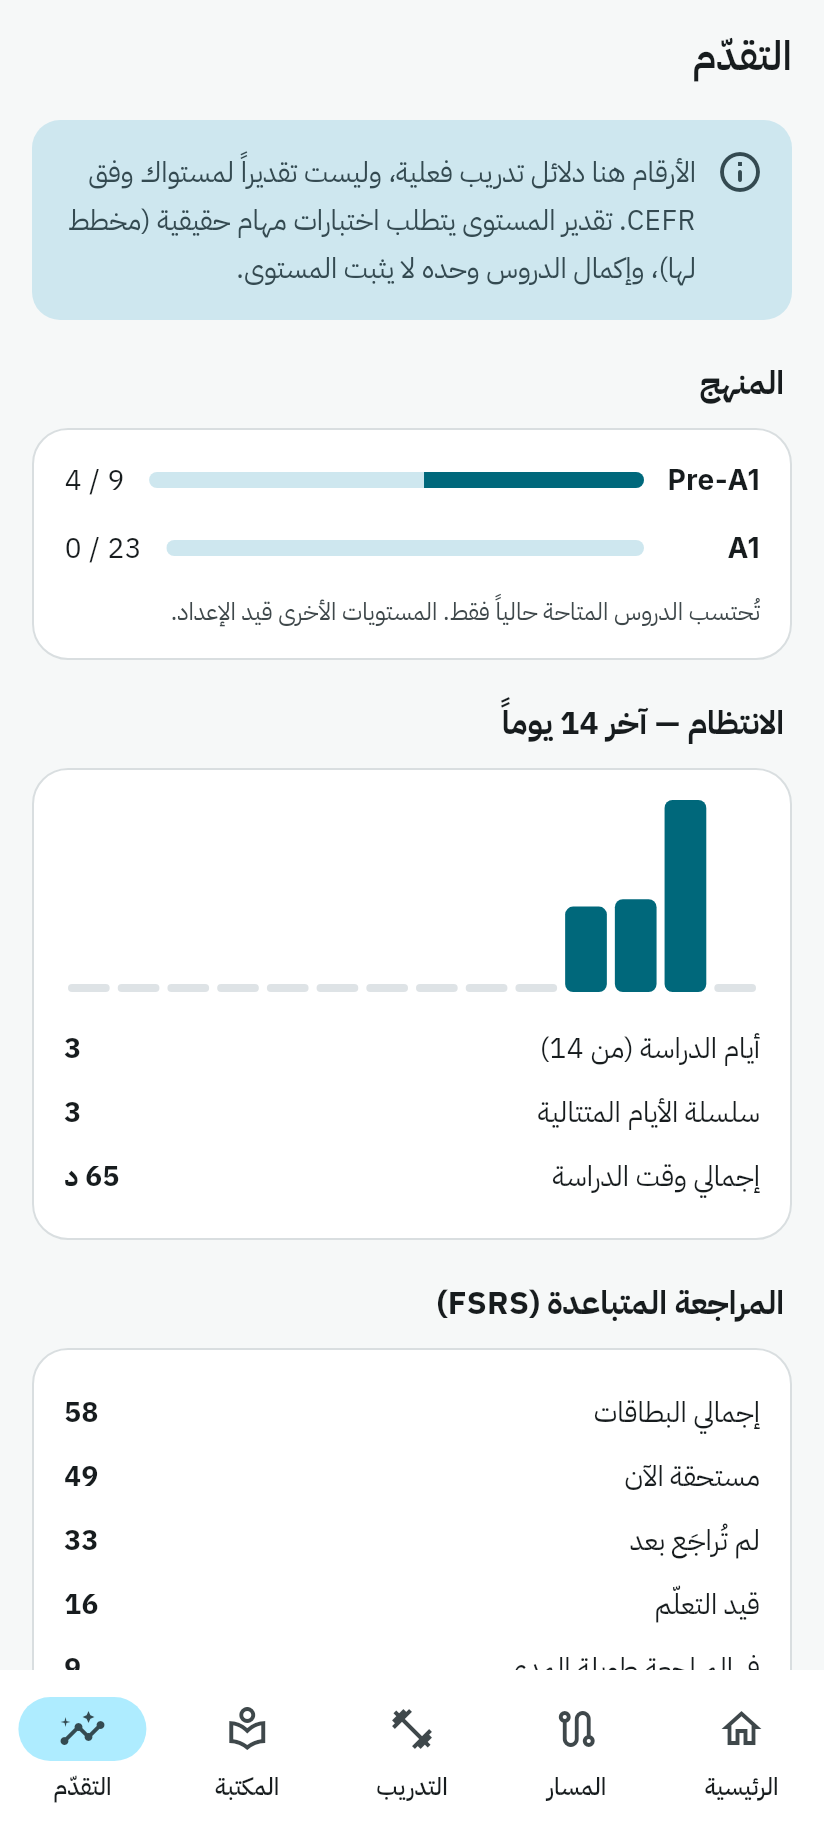
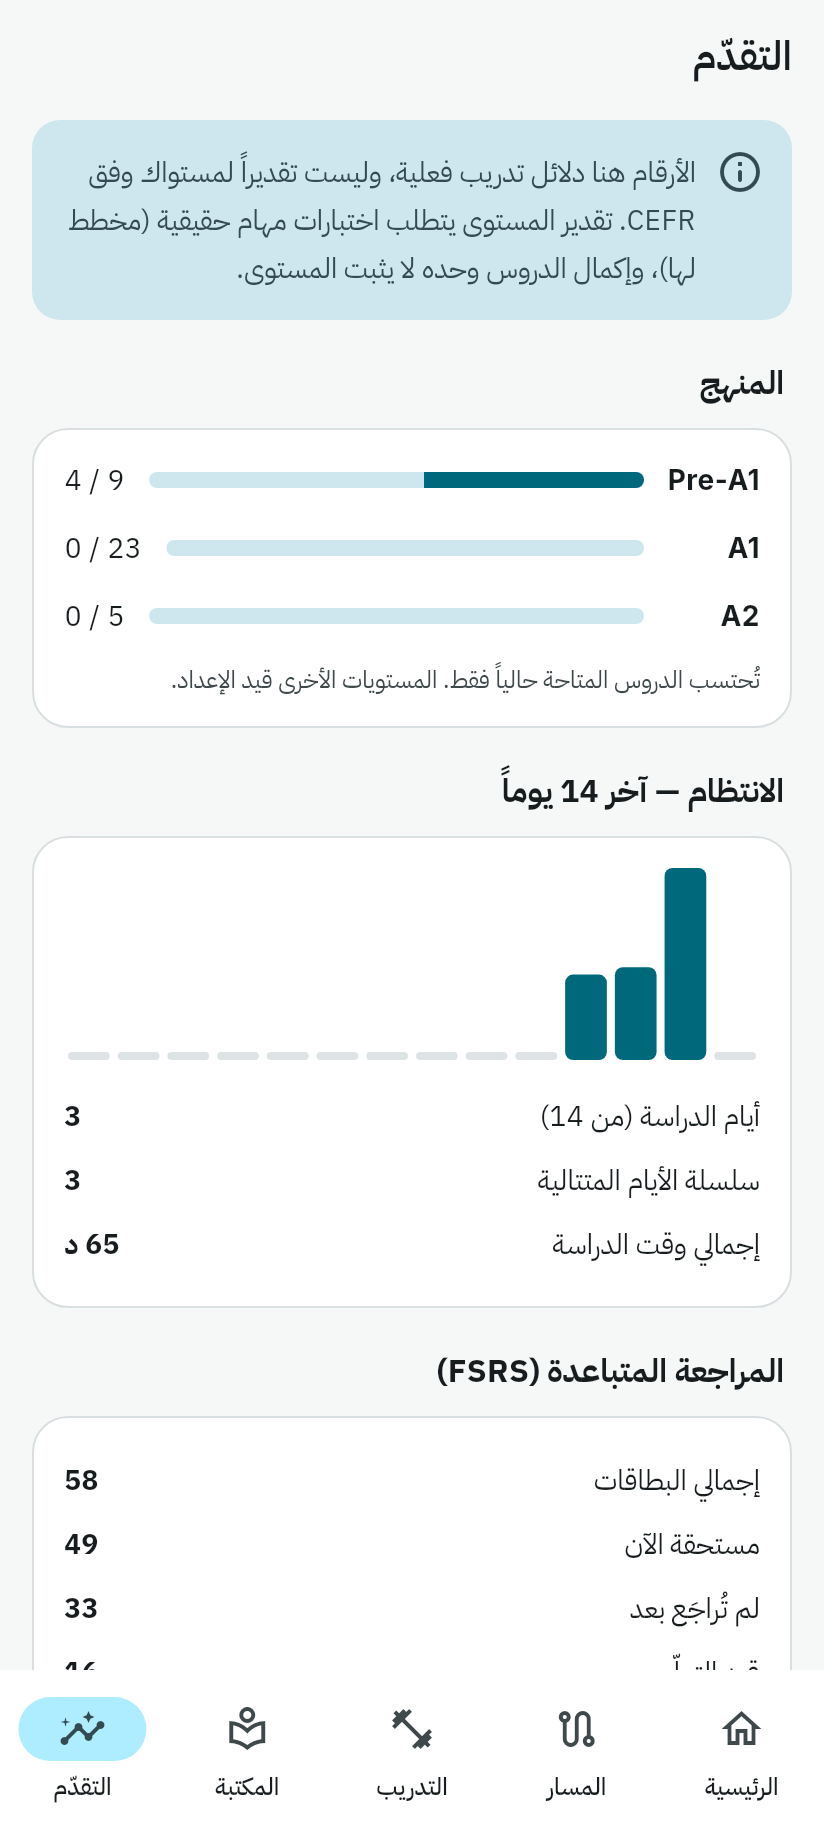
fix(assessment): shuffle checkpoint options per attempt (REVIEW-012 P1/P2)
P1: every checkpoint lists the correct option first and the screen showed
options in content order, so always tapping the first option passed. The
screen now shows displayedChoices(q, attemptSeed(startedAt)): a shuffled
copy seeded by the attempt and question. It is stable within the attempt
(rebuilds, navigation, listening) and differs between attempts. Content
lists are not mutated, and grading still compares option text, so stored
answers keep their meaning. Applies to all Pre-A1, A1 and A2 assessments.

Tests: assessment_order_test (permutation, stability, varied positions,
first-option strategy below chance threshold on every shipped assessment,
screen order matches the seed and survives next/back, later attempts
differ). Index-based option taps in tests now tap the option by text.

P2: dlg_a2_reclamacion.t7 no longer uses the ambiguous present/preterite
"cobramos"; it now reads "la factura tiene el servicio dos veces".

Screenshots 07 (A2 row in progress), 21 and 22 regenerated.

Claude-Session: https://claude.ai/code/session_014cGpiLUDDmKQRUcCZEH4q9

diff --git a/test/assessment_order_test.dart b/test/assessment_order_test.dart
@@ -1,0 +1,148 @@
+import 'package:espanol_pro/core/assessment/assessment_engine.dart';
+import 'package:espanol_pro/core/content/models.dart';
+import 'package:espanol_pro/core/learning/progress_repository.dart';
+import 'package:espanol_pro/core/srs/review_repository.dart';
+import 'package:flutter_test/flutter_test.dart';
+import 'package:timezone/data/latest_all.dart' as tzdata;
+
+import 'support.dart';
+import 'widget_support.dart';
+
+/// REVIEW-012 P1: the correct option is listed first in content, so options
+/// must not be shown in content order.
+void main() {
+  late ContentPack pack;
+  setUpAll(() async {
+    pack = await loadRealContent();
+    await loadAppFonts();
+    tzdata.initializeTimeZones();
+  });
+
+  Iterable<AssessmentQuestion> choiceQuestions() => pack.assessments
+      .expand((a) => a.questions)
+      .where((q) => q.type == 'choice');
+
+  group('displayed option order', () {
+    test('is a stable permutation and never changes the content', () {
+      for (final q in choiceQuestions()) {
+        final authored = [...q.choices];
+        for (var s = 0; s < 20; s++) {
+          final shown = displayedChoices(q, 'seed$s');
+          expect(shown.toSet(), authored.toSet(), reason: q.id);
+          expect(shown.length, authored.length, reason: q.id);
+          expect(displayedChoices(q, 'seed$s'), shown, reason: q.id);
+        }
+        expect(q.choices, authored, reason: '${q.id}: content mutated');
+      }
+    });
+
+    test('puts the correct option in different positions across attempts', () {
+      for (final q in choiceQuestions()) {
+        final positions = {
+          for (var s = 0; s < 40; s++)
+            displayedChoices(q, 'seed$s').indexOf(q.correctAnswer),
+        };
+        expect(positions.length, greaterThan(1), reason: q.id);
+      }
+    });
+
+    test('"always pick the first option" no longer passes any assessment', () {
+      // Every shipped checkpoint and level assessment, A1 and A2 included.
+      expect(
+        pack.assessments.map((a) => a.levelId).toSet(),
+        containsAll(['pre_a1', 'a1', 'a2']),
+      );
+      final seed = attemptSeed(DateTime.utc(2026, 3, 10, 9));
+      var choices = 0;
+      var firstIsRight = 0;
+      for (final a in pack.assessments) {
+        final first = {
+          for (final q in a.questions)
+            q.id: q.type == 'choice'
+                ? displayedChoices(q, seed).first
+                : q.correctAnswer,
+        };
+        final graded = gradeAssessment(a, first);
+        final wrongChoices = graded.where(
+          (g) => g.question.type == 'choice' && !g.isCorrect,
+        );
+        expect(wrongChoices, isNotEmpty, reason: a.id);
+        for (final g in graded.where((g) => g.question.type == 'choice')) {
+          choices++;
+          if (g.isCorrect) firstIsRight++;
+        }
+        // Answering by text is still graded right whatever the order.
+        final right = gradeAssessment(a, {
+          for (final q in a.questions) q.id: q.correctAnswer,
+        });
+        expect(right.every((g) => g.isCorrect), isTrue, reason: a.id);
+      }
+      // Chance level is about 1/3; content order would be 100 %.
+      expect(firstIsRight / choices, lessThan(0.5));
+    });
+  });
+
+  group('checkpoint screen', () {
+    Future<void> completeUnit(TestApp app, String unitId) async {
+      final repo = ProgressRepository(
+        app.db,
+        ReviewRepository(app.db, clock: app.clock.call, enableFuzzing: false),
+        clock: app.clock.call,
+      );
+      for (final l in pack.orderedLessons) {
+        await repo.completeLesson(
+          l,
+          score: 1,
+          seconds: 60,
+          contentVersion: pack.version,
+        );
+        if (l.unitId == unitId && l == pack.unit(unitId)!.lessons.last) break;
+      }
+    }
+
+    testWidgets('shows the attempt order, keeps it across navigation and '
+        'grades the chosen text', (tester) async {
+      final chk = pack.assessment('chk_a2_u1')!;
+      final app = TestApp(pack);
+      await completeUnit(app, 'a2_u1');
+      await app.pump(tester, location: '/assessment/${chk.id}');
+      final seed = attemptSeed(app.clock());
+      await tester.tapKey('assessment-start');
+
+      final q1 = chk.questions[0];
+      expect(q1.type, 'choice');
+      final shown = tester.shownOptions();
+      expect(shown, displayedChoices(q1, seed));
+
+      // Same order after selecting, moving on and coming back.
+      await tester.tapOption(q1.correctAnswer);
+      expect(tester.shownOptions(), shown);
+      await tester.tapKey('assessment-next');
+      await tester.tapKey('assessment-prev');
+      expect(tester.shownOptions(), shown);
+
+      // Across the checkpoint, content order is not what is shown.
+      var differs = 0;
+      for (final q in chk.questions.where((q) => q.type == 'choice')) {
+        if (displayedChoices(q, seed).first != q.correctAnswer) differs++;
+      }
+      expect(differs, greaterThan(0));
+      await app.dispose(tester);
+    });
+
+    testWidgets('a later attempt can show a different order', (tester) async {
+      final chk = pack.assessment('chk_a2_u1')!;
+      final orders = <String>{};
+      for (var attempt = 0; attempt < 3; attempt++) {
+        final app = TestApp(pack);
+        app.clock.advance(Duration(minutes: 7 * attempt));
+        await completeUnit(app, 'a2_u1');
+        await app.pump(tester, location: '/assessment/${chk.id}');
+        await tester.tapKey('assessment-start');
+        orders.add(tester.shownOptions().join('|'));
+        await app.dispose(tester);
+      }
+      expect(orders.length, greaterThan(1));
+    });
+  });
+}

diff --git a/lib/features/assessment/assessment_screens.dart b/lib/features/assessment/assessment_screens.dart
@@ -246,6 +246,7 @@ class _AssessmentScreenState extends ConsumerState<AssessmentScreen> {
         body: _AssessmentQuestionView(
           key: ValueKey(q.id),
           question: q,
+          choices: displayedChoices(q, attemptSeed(_startedAt!)),
           answer: answer,
           onChanged: (v) => setState(() => _answers[q.id] = v),
           heard: _heard.contains(q.id),
@@ -325,6 +326,7 @@ class _AssessmentQuestionView extends ConsumerStatefulWidget {
   const _AssessmentQuestionView({
     super.key,
     required this.question,
+    required this.choices,
     required this.answer,
     required this.onChanged,
     required this.heard,
@@ -332,6 +334,9 @@ class _AssessmentQuestionView extends ConsumerStatefulWidget {
   });
 
   final AssessmentQuestion question;
+
+  /// The options in this attempt's display order (see [displayedChoices]).
+  final List<String> choices;
   final String answer;
   final ValueChanged<String> onChanged;
 
@@ -442,15 +447,15 @@ class _AssessmentQuestionViewState
           ),
         const SizedBox(height: 16),
         if (q.type == 'choice')
-          for (var i = 0; i < q.choices.length; i++)
+          for (final (i, choice) in widget.choices.indexed)
             Padding(
               padding: const EdgeInsets.only(bottom: 10),
               child: _Choice(
                 key: ValueKey('assessment-option-$i'),
-                text: q.choices[i],
+                text: choice,
                 spanish: q.choicesEs,
-                selected: widget.answer == q.choices[i],
-                onTap: locked ? null : () => widget.onChanged(q.choices[i]),
+                selected: widget.answer == choice,
+                onTap: locked ? null : () => widget.onChanged(choice),
               ),
             )
         else ...[

diff --git a/test/assessment_flow_test.dart b/test/assessment_flow_test.dart
@@ -60,7 +60,7 @@ void main() {
       final q = chk.questions[i];
       if (q.audioEs != null) await tester.tapKey('assessment-play');
       if (q.type == 'choice') {
-        await tester.tapKey('assessment-option-${q.answer}');
+        await tester.tapOption(q.correctAnswer);
       } else {
         await tester.enterText(
           find.byKey(const ValueKey('assessment-answer')),
@@ -328,7 +328,7 @@ void main() {
       findsOneWidget,
     );
     // Tapping an option before listening selects nothing.
-    await tester.tapKey('assessment-option-${q.answer}');
+    await tester.tapOption(q.correctAnswer);
     expect(
       tester
           .widget<FilledButton>(find.byKey(const ValueKey('assessment-next')))
@@ -337,7 +337,7 @@ void main() {
     );
     // The engine fails while playing: the question stays locked.
     await tester.tapKey('assessment-play');
-    await tester.tapKey('assessment-option-${q.answer}');
+    await tester.tapOption(q.correctAnswer);
     expect(
       find.byKey(const ValueKey('assessment-listen-first')),
       findsOneWidget,
@@ -358,7 +358,7 @@ void main() {
     await tester.tapKey('assessment-start');
     await tester.tapKey('assessment-play');
     expect(find.byKey(const ValueKey('assessment-listen-first')), findsNothing);
-    await tester.tapKey('assessment-option-${chk.questions.first.answer}');
+    await tester.tapOption(chk.questions.first.correctAnswer);
     await tester.tapKey('assessment-next');
     // Question 2 has its own audio and is locked again.
     expect(chk.questions[1].audioEs, isNotNull);

diff --git a/test/widget_support.dart b/test/widget_support.dart
@@ -109,6 +109,32 @@ extension Robot on WidgetTester {
 
   Future<void> tapKey(String key) => tapSettled(find.byKey(ValueKey(key)));
 
+  /// Taps the checkpoint option showing [text], wherever this attempt's
+  /// shuffle placed it.
+  Future<void> tapOption(String text) => tapSettled(
+    find.ancestor(
+      of: find.text(text),
+      matching: find.byWidgetPredicate(isOption),
+    ),
+  );
+
+  /// The checkpoint options in the order they are shown.
+  List<String> shownOptions() => [
+    for (
+      var i = 0;
+      find.byKey(ValueKey('assessment-option-$i')).evaluate().isNotEmpty;
+      i++
+    )
+      widget<Text>(
+        find
+            .descendant(
+              of: find.byKey(ValueKey('assessment-option-$i')),
+              matching: find.byType(Text),
+            )
+            .first,
+      ).data!,
+  ];
+
   /// Answers one step on screen. [correct] = false gives a wrong answer
   /// (supported for choice / typed exercises).
   Future<void> answer(LessonStep step, {bool correct = true}) async {
@@ -151,4 +177,10 @@ extension Robot on WidgetTester {
         await tapSettled(find.text('كرّرتها بصوت مسموع'));
     }
   }
+}
+
+/// Whether [w] is a checkpoint option (`assessment-option-<display index>`).
+bool isOption(Widget w) {
+  final k = w.key;
+  return k is ValueKey<String> && k.value.startsWith('assessment-option-');
 }

diff --git a/lib/core/assessment/assessment_engine.dart b/lib/core/assessment/assessment_engine.dart
@@ -1,5 +1,8 @@
+import 'dart:math';
+
 import '../content/models.dart';
 import '../learning/answer_evaluator.dart';
+import '../learning/exercises.dart' show stableHash;
 
 /// Outcome of a typed answer, stored in `assessment_answers.spelling`.
 ///
@@ -72,6 +75,20 @@ class GradedAnswer {
   /// For typed answers only (see [Spelling]); null for choices.
   final String? spelling;
 }
+
+/// The seed for one attempt's option order: the moment it started.
+String attemptSeed(DateTime startedAt) => '${startedAt.microsecondsSinceEpoch}';
+
+/// The order in which a choice question's options are shown in one attempt.
+///
+/// Content lists options in a fixed order (the correct one usually first), so
+/// showing them as authored would let "always the first option" pass. This is
+/// a shuffled copy, seeded by the attempt and the question: the same attempt
+/// always shows the same order (rebuilds, navigation, listening), a new
+/// attempt usually shows another. The content list is never changed, and
+/// grading compares option *text*, so stored answers mean the same thing.
+List<String> displayedChoices(AssessmentQuestion q, String seed) =>
+    [...q.choices]..shuffle(Random(stableHash('$seed|${q.id}')));
 
 /// Grades a complete set of answers. Pure and deterministic.
 ///

diff --git a/test_screenshots/screenshots_test.dart b/test_screenshots/screenshots_test.dart
@@ -200,7 +200,7 @@ void main() {
     await app.pump(tester, location: '/assessment/${chk.id}');
     await tester.tapKey('assessment-start');
     await tester.tapKey('assessment-play');
-    await tester.tapKey('assessment-option-${chk.questions.first.answer}');
+    await tester.tapOption(chk.questions.first.correctAnswer);
     await shot(tester, '21_checkpoint_question');
     final answers = {for (final q in chk.questions) q.id: q.correctAnswer}
       ..['chk_pa1_u1.q7'] = 'telefono'

diff --git a/docs/IMPLEMENTATION_STATUS.md b/docs/IMPLEMENTATION_STATUS.md
@@ -142,6 +142,7 @@ detect it.
 | Checkpoint `chk_a2_u1`: 12 questions, 3 can-dos, 5 skills, 3 dialogue sentences | `a2_units_test`, `assessment_content_test` |
 | Verb reference +6 (abrir, sacar, arreglar, cobrar machine-checked; devolver, comprobar entered by hand) — 22 verbs | `a2_units_test`, `verbs_and_level_test` |
 | Path: a completed level stays expanded until its level assessment has been taken once, so starting A2 does not hide the A1 level assessment | `verbs_and_level_test` |
+| Checkpoint options (every unit checkpoint and level assessment, Pre-A1 to A2) are shown in a per-attempt shuffled order, stable within the attempt; grading by option text is unchanged (REVIEW-012 P1) | `assessment_order_test`, `assessment_flow_test` |
 
 ## Android build and runtime
 

diff --git a/docs/CONTENT_SCHEMA.md b/docs/CONTENT_SCHEMA.md
@@ -155,7 +155,7 @@ from `activity_attempts` rows with `context = 'listening'` whose
 
 | `type` | required | graded by |
 |---|---|---|
-| `choice` | `prompt_ar`, ≥ 2 distinct `choices`, valid `answer` | exact option text |
+| `choice` | `prompt_ar`, ≥ 2 distinct `choices`, valid `answer` | exact option text; options are shown in a per-attempt shuffled order, so authored order never reveals the answer |
 | `type` | `prompt_ar`, `accepted` | the answer evaluator; missing accents = meaning right, spelling recorded apart |
 | `dictation` | `audio_es` | as `type`, against `audio_es` |
 
